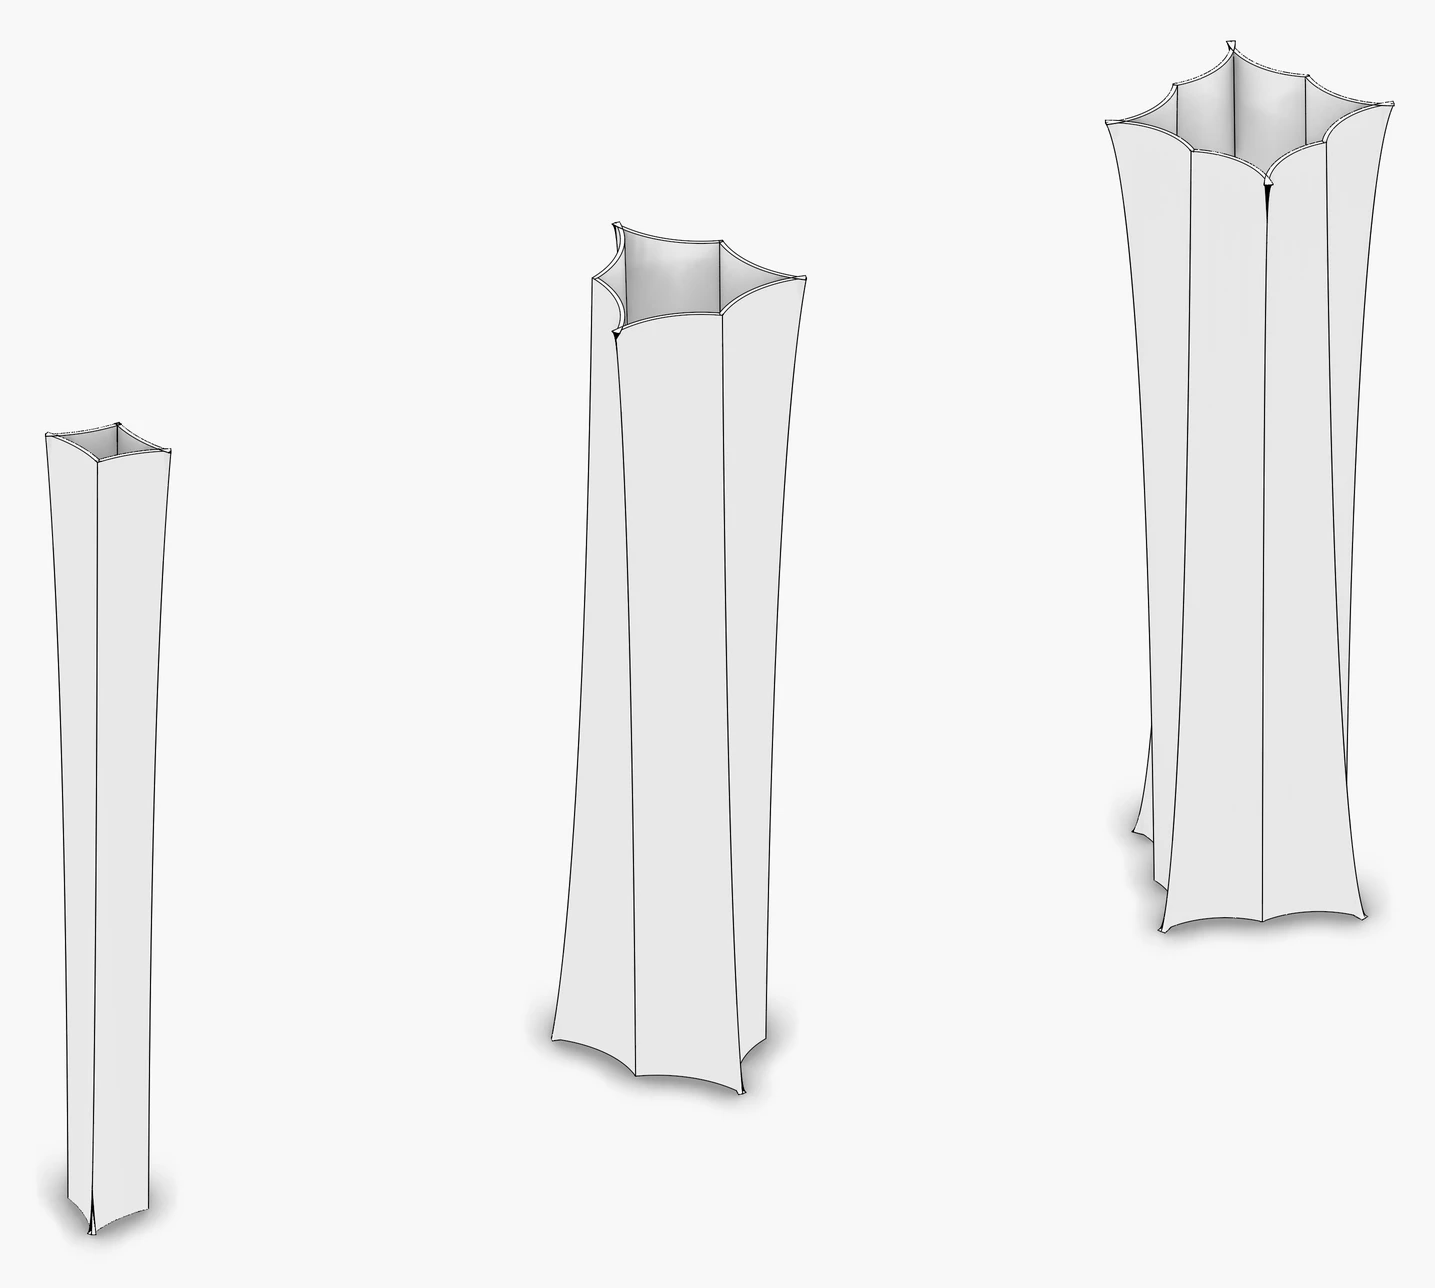
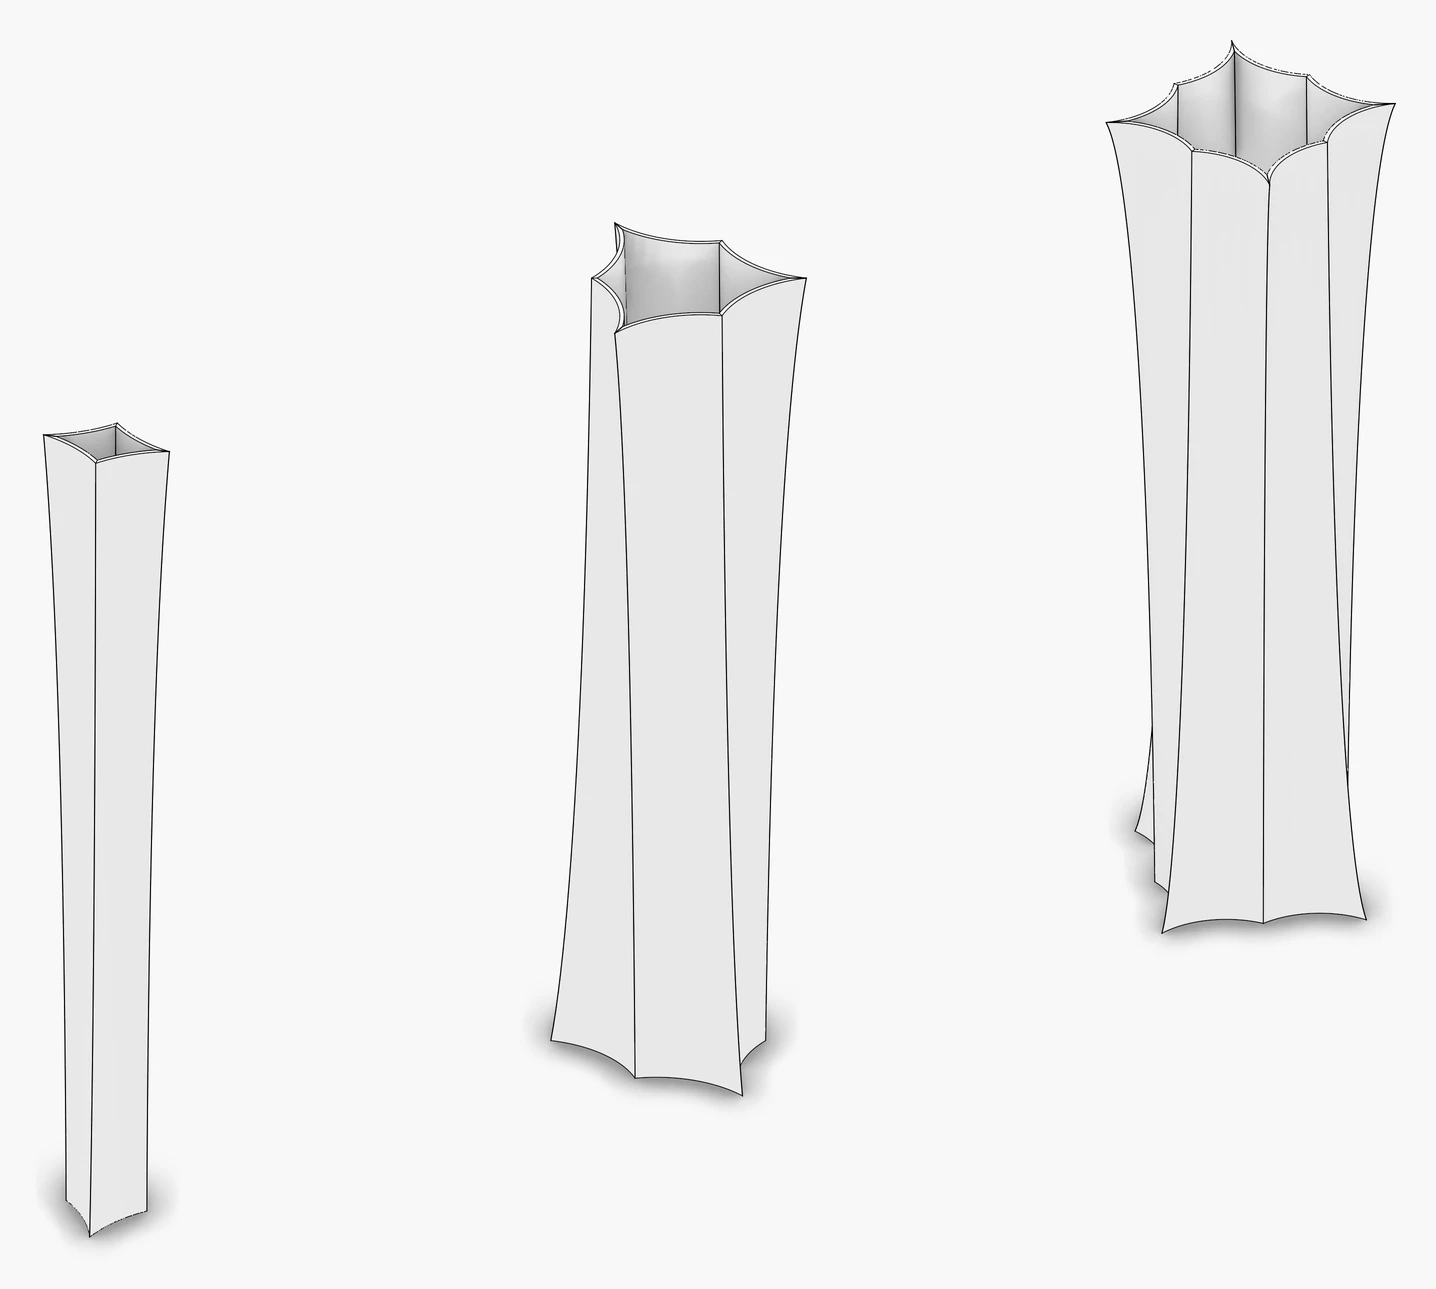
wood: cylinder carving plates close on their creases at the end planes - the plate behind the carved surface spans its own angles, its corners where the crease behind meets an end plane, the two matched piece by piece, so no slit opens at a crease end; carving validated closed exactly, no patch endi

diff --git a/src/templates/cylindrical_folding/cylinder_carving.h b/src/templates/cylindrical_folding/cylinder_carving.h
@@ -36,8 +36,12 @@ private:
     struct Patch {
         double first; // radians, its first generator.
         double last; // radians, its last generator.
+        double behind_first; // radians, the first generator of the plate behind it, a thickness deep.
+        double behind_last; // radians, the last.
         std::vector<std::pair<double, Part>> track; // Per fine step its angle and its piece on the surface.
     };
+
+    static constexpr double least = 0.02; // mm, the shortest piece of a generator a plate keeps, so it reaches its corners.
 
     double _distortion = 0.0; // The largest relative length error of any plate's development.
 
@@ -79,33 +83,29 @@ private:
     /// The parameters along the line between which it lies inside the cylinder grown by offset; none when it misses it.
     static std::optional<std::pair<double, double>> inside(const Cylinder& cylinder, double offset, const Point& point, const Vector& direction);
 
-    /// The piece of the generator at angle grown by offset that overlaps the reference most, a millimetre long; none when none does.
+    /// The piece of the generator at angle grown by offset that overlaps the reference most, the least long; none when none does.
     std::optional<Part> pick(size_t k, double angle, double offset, const Part& reference) const;
 
-    /// Whether the generator at angle keeps the reference's piece a millimetre long on the carved surface.
-    bool keeps(size_t k, double angle, const Part& reference) const;
+    /// The last angle from angle towards side (+1 or -1) whose generator grown by offset keeps a piece overlapping the reference:
+    /// stepped to the first that does not, or back to the first that does, then bisected.
+    double reach(size_t k, double angle, double side, double offset, const Part& reference) const;
 
-    /// The piece behind the outer one a thickness deep; where the plate behind runs out first, near an end plane, the last
-    /// millimetre of the outer piece at that end, the plate thinning to a wedge so the carved surface has no gap.
-    Part behind(size_t k, double angle, const Part& outer) const;
-
-    /// Carver k's patches: its pieces followed from generator to generator by their overlap, the ends of every one exact.
+    /// Carver k's patches: its pieces followed from generator to generator by their overlap, the ends of every one exact on the
+    /// carved surface and behind it, where a crease behind reaches an end plane at another angle than the crease on the surface.
     std::vector<Patch> compute_patches(size_t k) const;
 
     /// The patch's piece nearest the angle, the reference for every pick inside it.
     static const Part& reference(const Patch& patch, double angle);
 
-    /// The angles inside the patch where an end of its piece on the surface or behind it changes what ends it.
-    std::vector<double> compute_breaks(size_t k, const Patch& patch) const;
+    /// What ends the patch's piece at angle grown by offset at its start and at its end; -1 where it keeps none.
+    std::array<int, 2> enders(size_t k, const Patch& patch, double angle, double offset) const;
 
-    /// What ends each of the four boundaries of the patch at angle: the surface's start and end, the plate's start and end.
-    std::array<int, 4> enders(size_t k, const Patch& patch, double angle) const;
+    /// The angles from first to last where an end of the patch's piece grown by offset changes what ends it.
+    std::vector<double> compute_breaks(size_t k, const Patch& patch, double offset, double first, double last) const;
 
-    /// Throws when two carved patches meet at less than min_angle.
+    /// Throws when two carved patches meet at less than min_angle, or, closed, when a patch ends on the stock's surface: the point
+    /// it ends at lies in no other carver, so the stock's surface beside it is left uncarved, a gap between the patches.
     void validate(size_t k, const Patch& patch) const;
-
-    /// Throws when a point of the stock's surface between its end planes lies outside every carver, a gap between the patches.
-    void validate_closed() const;
 
     /// The unit normal of cylinder c at point, away from its axis.
     static Vector radial(const Cylinder& cylinder, const Point& point);
@@ -132,10 +132,6 @@ inline CylinderCarving::CylinderCarving(
 
     if (carvers.empty() || length <= 0.0 || thickness <= 0.0)
         throw std::invalid_argument("A cylinder carving needs a carver, a length and a thickness");
-
-    // closed: every point of the stock's surface carved, so the patches leave no gap
-    if (closed)
-        validate_closed();
 
     // plates: every carver's surface left inside the stock and outside the other carvers, every patch of it a plate behind it
     add_plates();
@@ -264,10 +260,11 @@ inline std::optional<CylinderCarving::Part> CylinderCarving::pick(size_t k, doub
     std::optional<Part> best;
     double best_overlap = 0.0;
 
+    // the reference grown by offset, as a tilted end plane meets the generator behind up to that much further along it
     for (const Part& piece : parts(k, angle, offset)) {
-        const double overlap = std::min(piece.high, reference.high) - std::max(piece.low, reference.low);
+        const double overlap = std::min(piece.high, reference.high + offset) - std::max(piece.low, reference.low - offset);
 
-        if (piece.high - piece.low > 1.0 && overlap > best_overlap) {
+        if (piece.high - piece.low > least && overlap > best_overlap) {
             best = piece;
             best_overlap = overlap;
         }
@@ -276,23 +273,39 @@ inline std::optional<CylinderCarving::Part> CylinderCarving::pick(size_t k, doub
     return best;
 }
 
-inline bool CylinderCarving::keeps(size_t k, double angle, const Part& reference) const {
+inline double CylinderCarving::reach(size_t k, double angle, double side, double offset, const Part& reference) const {
 
-    return pick(k, angle, 0.0, reference).has_value();
-}
+    // a fine step at a time to the change, one angle that keeps a piece and one that does not
+    const double step = 2.0 * Tolerance::PI / 1440.0;
+    double keep = angle;
+    double lose = angle + side * step;
 
-inline CylinderCarving::Part CylinderCarving::behind(size_t k, double angle, const Part& outer) const {
+    if (pick(k, angle, offset, reference)) {
+        for (int i = 0; i < 1440 && pick(k, lose, offset, reference); i++) {
+            keep = lose;
+            lose = lose + side * step;
+        }
+    } else {
+        lose = angle;
+        keep = angle - side * step;
 
-    const std::optional<Part> inner = pick(k, angle, thickness, outer);
+        for (int i = 0; i < 1440 && !pick(k, keep, offset, reference); i++) {
+            lose = keep;
+            keep = keep - side * step;
+        }
+    }
 
-    if (inner)
-        return *inner;
+    // the change by bisection
+    for (int i = 0; i < 50; i++) {
+        const double middle = 0.5 * (keep + lose);
 
-    // the end of the outer piece on an end plane, a millimetre of it
-    if (outer.high_by == 1 || outer.high_by == 2)
-        return {outer.high - 1.0, outer.high, outer.low_by, outer.high_by};
+        if (pick(k, middle, offset, reference))
+            keep = middle;
+        else
+            lose = middle;
+    }
 
-    return {outer.low, outer.low + 1.0, outer.low_by, outer.high_by};
+    return keep;
 }
 
 inline const CylinderCarving::Part& CylinderCarving::reference(const Patch& patch, double angle) {
@@ -318,7 +331,7 @@ inline std::vector<CylinderCarving::Patch> CylinderCarving::compute_patches(size
         const double angle = step * static_cast<double>(i);
 
         for (const Part& piece : parts(k, angle, 0.0))
-            if (piece.high - piece.low > 1.0)
+            if (piece.high - piece.low > least)
                 pieces[i].push_back(piece);
 
         if (pieces[i].empty() && start == count)
@@ -355,7 +368,7 @@ inline std::vector<CylinderCarving::Patch> CylinderCarving::compute_patches(size
             }
 
             if (next[p] < 0) {
-                patches.push_back({angle, angle, {}});
+                patches.push_back({angle, angle, angle, angle, {}});
                 next[p] = static_cast<int>(patches.size() - 1);
             }
 
@@ -366,69 +379,53 @@ inline std::vector<CylinderCarving::Patch> CylinderCarving::compute_patches(size
         open = next;
     }
 
-    // every patch of three steps or more, both ends by bisection to its last generator, so neighbours meet without a gap
+    // every patch of three steps or more, both ends exact on the surface and behind it, so neighbours meet without a gap
     std::vector<Patch> kept;
 
     for (Patch& patch : patches) {
         if (patch.track.size() < 3)
             continue;
 
-        for (size_t e = 0; e < 2; e++) {
-            double inside = e == 0 ? patch.first : patch.last;
-            double outside = e == 0 ? inside - step : inside + step;
-            const Part& end = e == 0 ? patch.track.front().second : patch.track.back().second;
-
-            for (int i = 0; i < 50; i++) {
-                const double middle = 0.5 * (inside + outside);
-
-                if (keeps(k, middle, end))
-                    inside = middle;
-                else
-                    outside = middle;
-            }
-
-            if (e == 0)
-                patch.first = inside;
-            else
-                patch.last = inside;
-        }
-
+        const Part& front = patch.track.front().second;
+        const Part& back = patch.track.back().second;
+        patch.first = reach(k, patch.first, -1.0, 0.0, front);
+        patch.last = reach(k, patch.last, 1.0, 0.0, back);
+        patch.behind_first = reach(k, patch.first, -1.0, thickness, front);
+        patch.behind_last = reach(k, patch.last, 1.0, thickness, back);
         kept.push_back(patch);
     }
 
     return kept;
 }
 
-inline std::array<int, 4> CylinderCarving::enders(size_t k, const Patch& patch, double angle) const {
+inline std::array<int, 2> CylinderCarving::enders(size_t k, const Patch& patch, double angle, double offset) const {
 
-    const std::optional<Part> outer = pick(k, angle, 0.0, reference(patch, angle));
+    const std::optional<Part> piece = pick(k, angle, offset, reference(patch, angle));
 
-    if (!outer)
-        return {-1, -1, -1, -1};
+    if (!piece)
+        return {-1, -1};
 
-    const Part inner = behind(k, angle, *outer);
-
-    return {outer->low_by, outer->high_by, inner.low_by, inner.high_by};
+    return {piece->low_by, piece->high_by};
 }
 
-inline std::vector<double> CylinderCarving::compute_breaks(size_t k, const Patch& patch) const {
+inline std::vector<double> CylinderCarving::compute_breaks(size_t k, const Patch& patch, double offset, double first, double last) const {
 
-    // fine steps over the patch; where what ends a boundary changes, the angle of the change by bisection
+    // fine steps from first to last; where what ends a boundary changes, the angle of the change by bisection
     const size_t count = 4 * samples;
-    std::vector<double> breaks = {patch.first};
+    std::vector<double> breaks = {first};
 
     for (size_t i = 0; i < count; i++) {
-        double low = patch.first + (patch.last - patch.first) * static_cast<double>(i) / static_cast<double>(count);
-        double high = patch.first + (patch.last - patch.first) * static_cast<double>(i + 1) / static_cast<double>(count);
-        const std::array<int, 4> at_low = enders(k, patch, low);
+        double low = first + (last - first) * static_cast<double>(i) / static_cast<double>(count);
+        double high = first + (last - first) * static_cast<double>(i + 1) / static_cast<double>(count);
+        const std::array<int, 2> at_low = enders(k, patch, low, offset);
 
-        if (at_low == enders(k, patch, high))
+        if (at_low == enders(k, patch, high, offset))
             continue;
 
         for (int step = 0; step < 50; step++) {
             const double middle = 0.5 * (low + high);
 
-            if (enders(k, patch, middle) == at_low)
+            if (enders(k, patch, middle, offset) == at_low)
                 low = middle;
             else
                 high = middle;
@@ -438,8 +435,8 @@ inline std::vector<double> CylinderCarving::compute_breaks(size_t k, const Patch
             breaks.push_back(0.5 * (low + high));
     }
 
-    if (patch.last - breaks.back() > 1e-6)
-        breaks.push_back(patch.last);
+    if (last - breaks.back() > 1e-6)
+        breaks.push_back(last);
     else
         breaks.back() = patch.last;
 
@@ -448,9 +445,14 @@ inline std::vector<double> CylinderCarving::compute_breaks(size_t k, const Patch
 
 inline void CylinderCarving::validate(size_t k, const Patch& patch) const {
 
-    // every crease of the patch with another carver at a clear angle
+    // every crease of the patch with another carver at a clear angle; closed, no end on the stock's surface
     for (const std::pair<double, Part>& step : patch.track) {
         const std::pair<Point, Vector> line = generator(k, step.first, 0.0);
+
+        if (closed && (step.second.low_by == 0 || step.second.high_by == 0)) {
+            const Point point = line.first + line.second * (step.second.low_by == 0 ? step.second.low : step.second.high);
+            throw std::invalid_argument(fmt::format("Carver {} ends on the stock's surface at ({:.0f}, {:.0f}, {:.0f}), leaving it uncarved beside it, a gap between the patches", k, point[0], point[1], point[2]));
+        }
 
         for (const std::pair<double, int>& end : {std::make_pair(step.second.low, step.second.low_by), std::make_pair(step.second.high, step.second.high_by)}) {
             if (end.second < 3)
@@ -467,34 +469,6 @@ inline void CylinderCarving::validate(size_t k, const Patch& patch) const {
     }
 }
 
-inline void CylinderCarving::validate_closed() const {
-
-    // the stock's surface on a grid round it and along it, every point inside a carver
-    const Vector axis = stock.direction.normalized();
-    const Vector helper = std::abs(axis[2]) < 0.9 ? Vector(0.0, 0.0, 1.0) : Vector(1.0, 0.0, 0.0);
-    const Vector u = axis.cross(helper).normalized();
-    const Vector v = axis.cross(u).normalized();
-    const size_t around = 720;
-    const size_t along = 240;
-
-    for (size_t i = 0; i < around; i++)
-        for (size_t j = 0; j <= along; j++) {
-            const double angle = 2.0 * Tolerance::PI * static_cast<double>(i) / static_cast<double>(around);
-            const double x = length * static_cast<double>(j) / static_cast<double>(along);
-            const Point point = stock.point + axis * x + u * (stock.radius * std::cos(angle)) + v * (stock.radius * std::sin(angle));
-            bool carved = false;
-
-            for (size_t k = 0; k < carvers.size() && !carved; k++) {
-                const Vector c = carvers[k].direction.normalized();
-                const Vector offset = point - carvers[k].point;
-                carved = (offset - c * offset.dot(c)).magnitude() < carvers[k].radius;
-            }
-
-            if (!carved)
-                throw std::invalid_argument(fmt::format("The carvers leave the stock's surface uncarved at {:.0f} degrees round it, {:.0f} mm along it, a gap between the patches", angle * Tolerance::TO_DEGREES, x));
-        }
-}
-
 inline void CylinderCarving::add_plates() {
 
     const std::shared_ptr<TreeNode> group = add_group("plates");
@@ -506,8 +480,13 @@ inline void CylinderCarving::add_plates() {
             const Patch& patch = patches[p];
             validate(k, patch);
 
-            // the patch cut where any boundary changes what ends it, every piece smooth, the four boundaries cut at the same angles
-            const std::vector<double> breaks = compute_breaks(k, patch);
+            // the patch cut where a boundary changes what ends it, on the surface and behind it alike, every piece smooth
+            const std::vector<double> breaks = compute_breaks(k, patch, 0.0, patch.first, patch.last);
+            const std::vector<double> behind = compute_breaks(k, patch, thickness, patch.behind_first, patch.behind_last);
+
+            if (breaks.size() != behind.size())
+                throw std::invalid_argument(fmt::format("Carver {}'s plate {} ends in {} pieces on the surface and {} behind it", k, p, breaks.size() - 1, behind.size() - 1));
+
             std::array<std::vector<NurbsCurve>, 4> pieces;
 
             for (size_t b = 0; b + 1 < breaks.size(); b++) {
@@ -515,21 +494,24 @@ inline void CylinderCarving::add_plates() {
                 const size_t steps = std::max<size_t>(3, static_cast<size_t>(std::ceil(share * static_cast<double>(samples))));
                 std::array<std::vector<Point>, 4> points;
 
-                // every generator of the piece clipped on the carved surface and, a thickness behind it, on the carvers grown alike
+                // every generator of the piece on the carved surface and its match a thickness behind it, the two pieces spanned
+                // alike so their corners meet on the same edge of a side face
                 for (size_t i = 0; i <= steps; i++) {
-                    const double angle = breaks[b] + (breaks[b + 1] - breaks[b]) * static_cast<double>(i) / static_cast<double>(steps);
+                    const double t = static_cast<double>(i) / static_cast<double>(steps);
+                    const double angle = breaks[b] + (breaks[b + 1] - breaks[b]) * t;
+                    const double behind_angle = behind[b] + (behind[b + 1] - behind[b]) * t;
                     const std::pair<Point, Vector> outer = generator(k, angle, 0.0);
-                    const std::pair<Point, Vector> inner = generator(k, angle, thickness);
+                    const std::pair<Point, Vector> inner = generator(k, behind_angle, thickness);
                     const std::optional<Part> outer_part = pick(k, angle, 0.0, reference(patch, angle));
+                    const std::optional<Part> inner_part = pick(k, behind_angle, thickness, reference(patch, behind_angle));
 
-                    if (!outer_part)
-                        throw std::invalid_argument(fmt::format("Carver {} leaves no carved surface at its generator at {:.3f} radians", k, angle));
+                    if (!outer_part || !inner_part)
+                        throw std::invalid_argument(fmt::format("Carver {} leaves no plate at its generator at {:.3f} radians", k, outer_part ? behind_angle : angle));
 
-                    const Part inner_part = behind(k, angle, *outer_part);
                     points[0].push_back(outer.first + outer.second * outer_part->low);
                     points[1].push_back(outer.first + outer.second * outer_part->high);
-                    points[2].push_back(inner.first + inner.second * inner_part.low);
-                    points[3].push_back(inner.first + inner.second * inner_part.high);
+                    points[2].push_back(inner.first + inner.second * inner_part->low);
+                    points[3].push_back(inner.first + inner.second * inner_part->high);
                 }
 
                 for (size_t c = 0; c < 4; c++)

diff --git a/src/joinery_solver/wood_algorithms/wood_contact_detection.cpp b/src/joinery_solver/wood_algorithms/wood_contact_detection.cpp
@@ -75,6 +75,22 @@ boundary_on(const std::vector<Point>& points, const std::vector<Point>& other, d
     return on;
 }
 
+/// Whether both boundaries of a face are shorter than tolerance: the face narrowed to a line, which touches nothing.
+bool narrowed(const std::array<std::vector<Point>, 2>& face, double tolerance) {
+
+    for (const std::vector<Point>& boundary : face) {
+        double length = 0.0;
+
+        for (size_t k = 0; k + 1 < boundary.size(); k++)
+            length += boundary[k].distance(boundary[k + 1]);
+
+        if (length > tolerance)
+            return false;
+    }
+
+    return true;
+}
+
 /// A face as the strip of triangles between its two sampled boundaries.
 Mesh face_strip(const std::array<std::vector<Point>, 2>& face) {
 
@@ -132,6 +148,10 @@ curved_contacts(const PlateCurved& a, const PlateCurved& b, double tolerance) {
 
     for (size_t i = 0; i < 6; i++)
         for (size_t j = 0; j < 6; j++) {
+            // an end narrowed to a line, as a plate's where it closes on a crease, is no contact
+            if (narrowed(faces_a[i], tolerance) || narrowed(faces_b[j], tolerance))
+                continue;
+
             const size_t found = contacts.size();
 
             for (size_t order = 0; order < 2; order++) {
